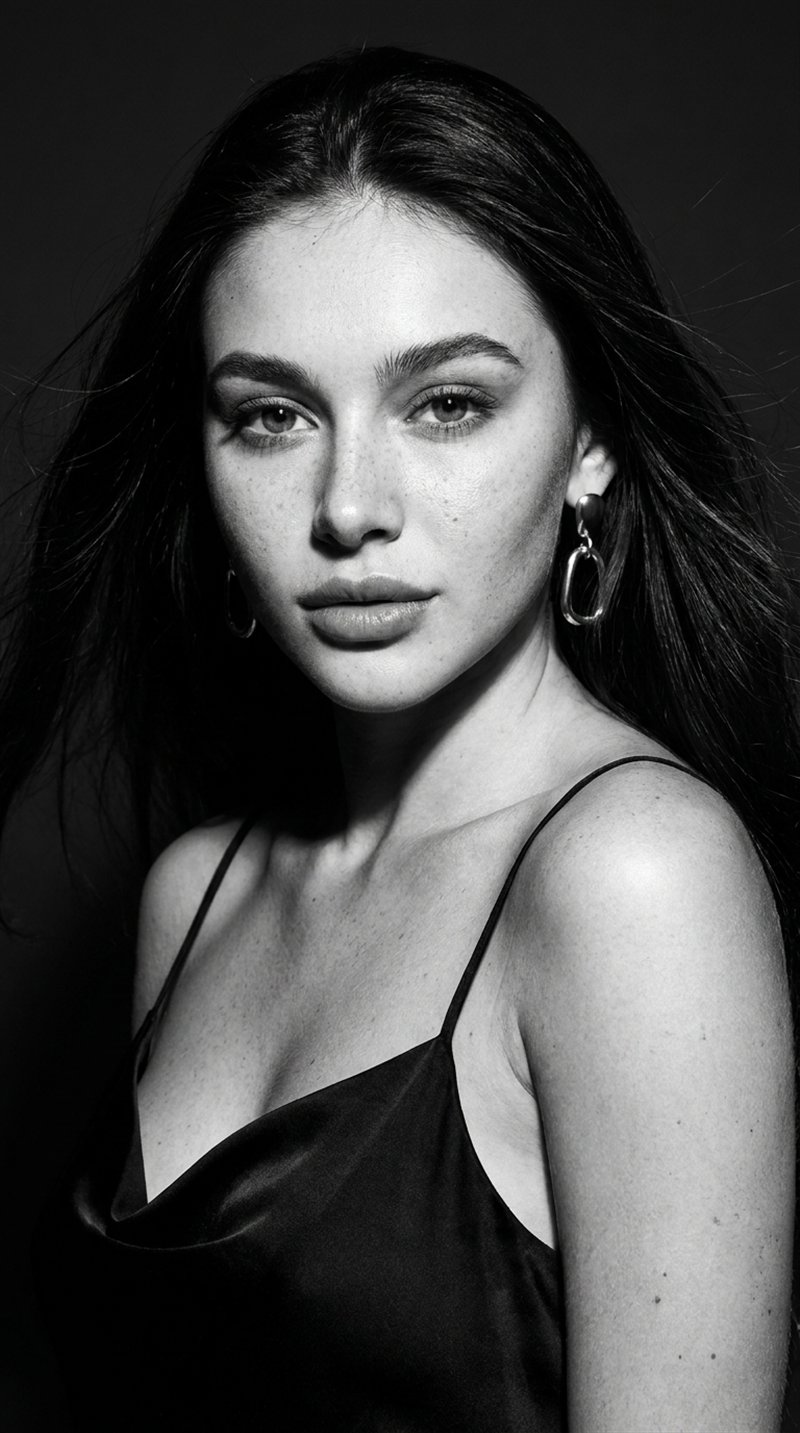
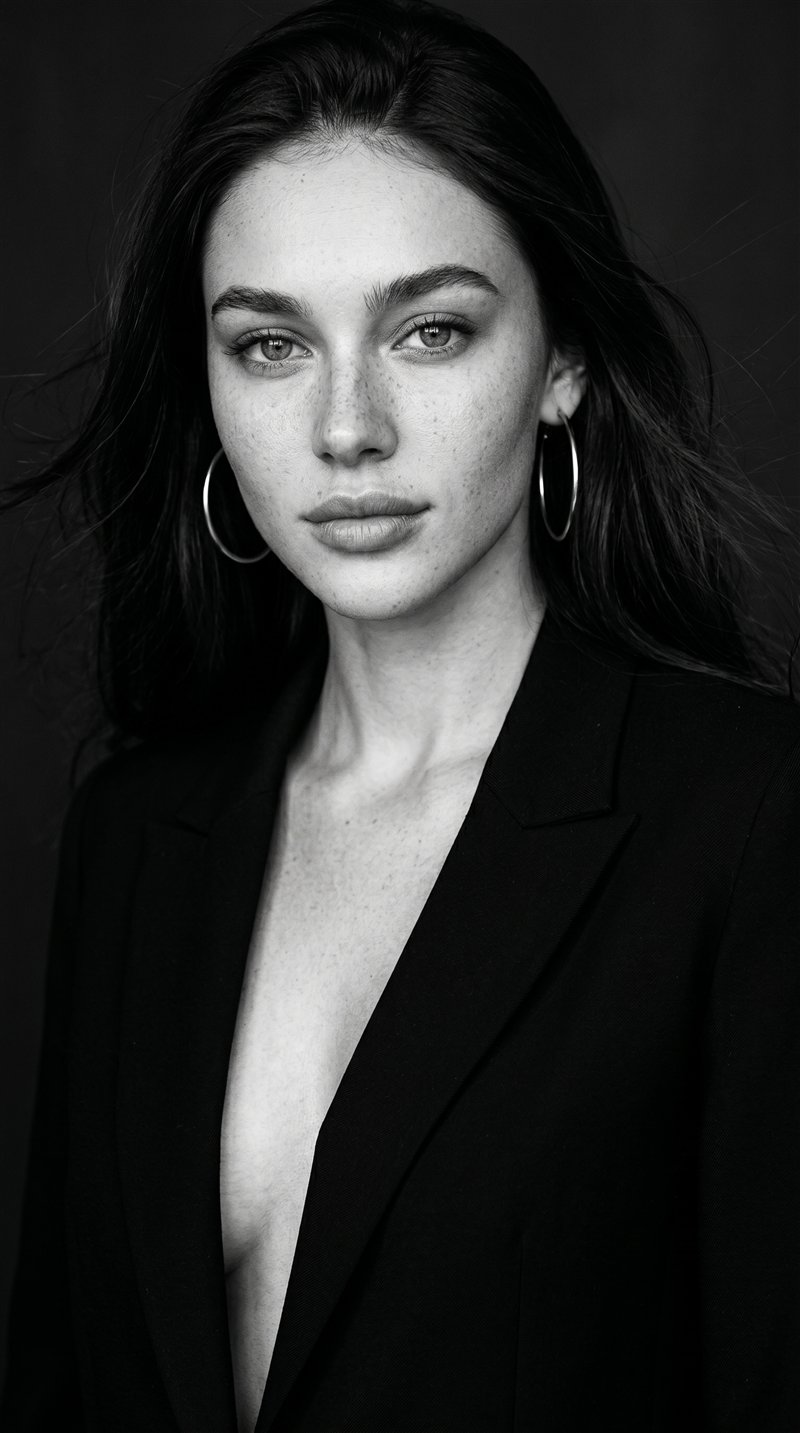
fix(vogue): убрать триггеры идеализации лица (модель/высокая мода), обновить превью
В Ч/Б editorial-промте слова VOGUE/высокая мода/editorial толкали NanoBanana
подменять лицо на типовое модельное. Убраны триггеры, добавлен явный запрет
на модельную подмену + сохранение реальной ширины/округлости лица. Превью VOGUE
обновлено. Бамп app.js v=122.

diff --git a/webapp/templates/index.html b/webapp/templates/index.html
@@ -56,7 +56,7 @@
         </div>
         <div class="sec">
             <h3 class="sec-title"><i class="bar"></i><span data-i18n="templates">Шаблоны</span></h3>
-            <div class="tpl-cat"><div class="tpl-hdr"><span class="tpl-hdr-ico"><svg viewBox="0 0 24 24" fill="none" stroke="currentColor" stroke-width="1.8" stroke-linecap="round" stroke-linejoin="round"><path d="M16 21v-2a4 4 0 0 0-4-4H6a4 4 0 0 0-4 4v2"/><circle cx="9" cy="7" r="4"/><path d="M22 21v-2a4 4 0 0 0-3-3.87M16 3.13a4 4 0 0 1 0 7.75"/></svg></span><b data-i18n="girls">Девушки</b><span class="muted" data-i18n="tplCount">· шаблоны</span><span class="gold ml-auto" data-i18n="tplAll">все →</span></div><div class="tpl-scroll"><div class="tpl-thumb has-media" data-tpl="girl-roses-photo"><img src="/static/tpl/girl-roses-photo.jpg?v=1" alt=""><span class="tpl-thumb-cap" data-i18n="trendGirlRoses">ДЕВУШКА С РОЗАМИ</span></div><div class="tpl-thumb has-media" data-tpl="girl-sunset-photo"><img src="/static/tpl/girl-sunset-photo.jpg?v=1" alt=""><span class="tpl-thumb-cap" data-i18n="trendGirlSunset">СЕЛФИ НА ЗАКАТЕ</span></div><div class="tpl-thumb has-media" data-tpl="girl-porsche-photo"><img src="/static/tpl/girl-porsche-photo.jpg?v=1" alt=""><span class="tpl-thumb-cap" data-i18n="trendGirlPorsche">В КАБРИОЛЕТЕ</span></div><div class="tpl-thumb has-media" data-tpl="girl-vogue-photo"><img src="/static/tpl/girl-vogue-photo.jpg?v=1" alt=""><span class="tpl-thumb-cap" data-i18n="trendGirlVogue">ОБЛОЖКА VOGUE</span></div><div class="tpl-thumb has-media" data-tpl="girl-neon-photo"><img src="/static/tpl/girl-neon-photo.jpg?v=1" alt=""><span class="tpl-thumb-cap" data-i18n="trendGirlNeon">НЕОН</span></div></div></div>
+            <div class="tpl-cat"><div class="tpl-hdr"><span class="tpl-hdr-ico"><svg viewBox="0 0 24 24" fill="none" stroke="currentColor" stroke-width="1.8" stroke-linecap="round" stroke-linejoin="round"><path d="M16 21v-2a4 4 0 0 0-4-4H6a4 4 0 0 0-4 4v2"/><circle cx="9" cy="7" r="4"/><path d="M22 21v-2a4 4 0 0 0-3-3.87M16 3.13a4 4 0 0 1 0 7.75"/></svg></span><b data-i18n="girls">Девушки</b><span class="muted" data-i18n="tplCount">· шаблоны</span><span class="gold ml-auto" data-i18n="tplAll">все →</span></div><div class="tpl-scroll"><div class="tpl-thumb has-media" data-tpl="girl-roses-photo"><img src="/static/tpl/girl-roses-photo.jpg?v=1" alt=""><span class="tpl-thumb-cap" data-i18n="trendGirlRoses">ДЕВУШКА С РОЗАМИ</span></div><div class="tpl-thumb has-media" data-tpl="girl-sunset-photo"><img src="/static/tpl/girl-sunset-photo.jpg?v=1" alt=""><span class="tpl-thumb-cap" data-i18n="trendGirlSunset">СЕЛФИ НА ЗАКАТЕ</span></div><div class="tpl-thumb has-media" data-tpl="girl-porsche-photo"><img src="/static/tpl/girl-porsche-photo.jpg?v=1" alt=""><span class="tpl-thumb-cap" data-i18n="trendGirlPorsche">В КАБРИОЛЕТЕ</span></div><div class="tpl-thumb has-media" data-tpl="girl-vogue-photo"><img src="/static/tpl/girl-vogue-photo.jpg?v=2" alt=""><span class="tpl-thumb-cap" data-i18n="trendGirlVogue">ОБЛОЖКА VOGUE</span></div><div class="tpl-thumb has-media" data-tpl="girl-neon-photo"><img src="/static/tpl/girl-neon-photo.jpg?v=1" alt=""><span class="tpl-thumb-cap" data-i18n="trendGirlNeon">НЕОН</span></div></div></div>
             <div class="tpl-cat"><div class="tpl-hdr"><span class="tpl-hdr-ico"><svg viewBox="0 0 24 24" fill="none" stroke="currentColor" stroke-width="1.8" stroke-linecap="round" stroke-linejoin="round"><path d="M16 21v-2a4 4 0 0 0-4-4H6a4 4 0 0 0-4 4v2"/><circle cx="9" cy="7" r="4"/><path d="M22 21v-2a4 4 0 0 0-3-3.87M16 3.13a4 4 0 0 1 0 7.75"/></svg></span><b data-i18n="kids">Дети</b><span class="muted" data-i18n="tplCount">· шаблоны</span><span class="gold ml-auto" data-i18n="tplAll">все →</span></div><div class="tpl-scroll"><div class="tpl-thumb"></div><div class="tpl-thumb"></div><div class="tpl-thumb"></div><div class="tpl-thumb"></div></div></div>
             <div class="tpl-cat"><div class="tpl-hdr"><span class="tpl-hdr-ico"><svg viewBox="0 0 24 24" fill="none" stroke="currentColor" stroke-width="1.8" stroke-linecap="round" stroke-linejoin="round"><path d="M16 21v-2a4 4 0 0 0-4-4H6a4 4 0 0 0-4 4v2"/><circle cx="9" cy="7" r="4"/><path d="M22 21v-2a4 4 0 0 0-3-3.87M16 3.13a4 4 0 0 1 0 7.75"/></svg></span><b data-i18n="men">Мужчины</b><span class="muted" data-i18n="tplCount">· шаблоны</span><span class="gold ml-auto" data-i18n="tplAll">все →</span></div><div class="tpl-scroll"><div class="tpl-thumb"></div><div class="tpl-thumb"></div><div class="tpl-thumb"></div><div class="tpl-thumb"></div></div></div>
         </div>
@@ -428,6 +428,6 @@
 
 </div>
 <script src="/static/js/i18n.js?v=95"></script>
-<script src="/static/js/app.js?v=121"></script>
+<script src="/static/js/app.js?v=122"></script>
 </body>
 </html>

diff --git a/webapp/static/js/app.js b/webapp/static/js/app.js
@@ -2229,7 +2229,7 @@ var GIRL_PORSCHE_PARAMS = [
 ];
 
 // ── VOGUE cover: female-only B&W editorial param template (NanoBanana PRO). ──
-var GIRL_VOGUE_SKELETON = `КЛЮЧЕВОЕ ТРЕБОВАНИЕ: точно перенести лицо девушки с загруженного фото-референса, это портрет КОНКРЕТНОГО человека, а не собирательный образ. Лицо на результате должно быть таким, чтобы её мгновенно узнали родные. Скопируй лицо 1:1: сохрани без единого изменения форму и ШИРИНУ лица и полноту щёк (НЕ сужай, не утончай, не вытягивай овал), овал и линию челюсти, форму и пропорции носа, форму и разрез глаз, расстояние между глазами, брови, форму и полноту губ, скулы, структуру и текстуру кожи, родинки, веснушки — 100% узнаваемость. ЦВЕТ ГЛАЗ — строго как на референсе (светлые глаза НЕ делай тёмными). БЕЗ сглаживания кожи, БЕЗ AI-эффекта, не идеализируй, не омолаживай, не делай лицо тоньше, симметричнее, красивее или «модельным», не меняй форму носа и пропорции лица. Если сомневаешься — копируй черты точно с референса. Волосы — цвет и длина строго как на загруженном фото референса; {hair}. Чёрно-белый журнальный editorial-портрет уровня обложки VOGUE, крупный план по плечи. {light}. Уверенный выразительный взгляд прямо в камеру. {outfit}. {earrings}. Тёмный однотонный фон. Высокая мода, профессиональная съёмка на среднеформатную камеру, чёткая детализация кожи. Глубокий монохром, лёгкое плёночное зерно. Без текста, букв, логотипов и водяных знаков.`;
+var GIRL_VOGUE_SKELETON = `КЛЮЧЕВОЕ ТРЕБОВАНИЕ: точно перенести лицо девушки с загруженного фото-референса, это портрет КОНКРЕТНОГО человека, а не собирательный образ. Лицо на результате должно быть таким, чтобы её мгновенно узнали родные. Скопируй лицо 1:1: сохрани без единого изменения форму и ШИРИНУ лица и полноту щёк (НЕ сужай, не утончай, не вытягивай овал — оставь лицо округлым/широким, если оно такое на референсе), овал и линию челюсти, форму и пропорции носа, форму и разрез глаз, расстояние между глазами, брови, форму и полноту губ, скулы, структуру и текстуру кожи, родинки, веснушки — 100% узнаваемость. ЦВЕТ ГЛАЗ — строго как на референсе (светлые глаза НЕ делай тёмными). ВАЖНО: это обычная девушка, а НЕ профессиональная фотомодель — НЕ заменяй её лицо на типовое «модельное», не делай его длиннее, худее, скуластее или симметричнее; сохрани её настоящие, более мягкие и округлые черты, реальную ширину лица и полные щёки. Если её черты отличаются от стандартной модели — это правильно, оставь их ровно как на референсе. БЕЗ сглаживания кожи, БЕЗ AI-эффекта, не идеализируй, не омолаживай, не меняй форму носа и пропорции лица. Чёрно-белая съёмка не должна менять черты лица — это то же самое лицо с референса, просто в монохроме. Если сомневаешься — копируй черты точно с референса. Волосы — цвет и длина строго как на загруженном фото референса; {hair}; волосы НЕ должны закрывать или менять форму лица, оба контура лица видны. Стильный чёрно-белый студийный портрет крупным планом по плечи. {light}. Спокойный уверенный взгляд прямо в камеру. {outfit}. {earrings}. Тёмный однотонный фон. Профессиональная студийная съёмка на среднеформатную камеру, чёткая реалистичная детализация кожи. Глубокий монохром, лёгкое плёночное зерно. Без текста, букв, логотипов и водяных знаков.`;
 
 var GIRL_VOGUE_PARAMS = [
     { id:"outfit", control:"sheet", label:{ru:"Одежда",en:"Clothing",es:"Ropa"},